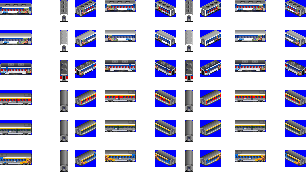
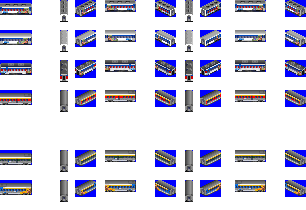
Change: Prepare for DHC 1 cafe car

diff --git a/docs/download_page/korean.html b/docs/download_page/korean.html
@@ -270,7 +270,7 @@
         <td class="introduction">1972</td>
     </tr>
     <tr data-veh_id="CAFE_CAR">
-        <td class="refit"><div><img src="./_static/CAFE_CAR_MUGUNGHWA_1.png" alt="카페 객차"><br /><img src="./_static/CAFE_CAR_MUGUNGHWA_2.png" alt="카페 객차"><br /><img src="./_static/CAFE_CAR_RDC.png" alt="카페 객차"><br /><img src="./_static/CAFE_CAR_MUGUNGHWA_STREAMLINED.png" alt="카페 객차"><br /><img src="./_static/CAFE_CAR_DHC_2.png" alt="카페 객차"><br /><img src="./_static/CAFE_CAR_DHC_3.png" alt="카페 객차"></div></td>
+        <td class="refit"><div><img src="./_static/CAFE_CAR_MUGUNGHWA_1.png" alt="카페 객차"><br /><img src="./_static/CAFE_CAR_MUGUNGHWA_2.png" alt="카페 객차"><br /><img src="./_static/CAFE_CAR_RDC.png" alt="카페 객차"><br /><img src="./_static/CAFE_CAR_MUGUNGHWA_STREAMLINED.png" alt="카페 객차"><br /><img src="./_static/CAFE_CAR_DHC_1.png" alt="카페 객차"><br /><img src="./_static/CAFE_CAR_DHC_2.png" alt="카페 객차"><br /><img src="./_static/CAFE_CAR_DHC_3.png" alt="카페 객차"></div></td>
         <td class="name">카페 객차</td>
         <td class="speed">120 km/h</td>
         <td class="speed_designed">120 km/h</td>

diff --git a/docs/download_page/english.html b/docs/download_page/english.html
@@ -270,7 +270,7 @@
         <td class="introduction">1972</td>
     </tr>
     <tr data-veh_id="CAFE_CAR">
-        <td class="refit"><div><img src="./_static/CAFE_CAR_MUGUNGHWA_1.png" alt="Cafe car"><br /><img src="./_static/CAFE_CAR_MUGUNGHWA_2.png" alt="Cafe car"><br /><img src="./_static/CAFE_CAR_RDC.png" alt="Cafe car"><br /><img src="./_static/CAFE_CAR_MUGUNGHWA_STREAMLINED.png" alt="Cafe car"><br /><img src="./_static/CAFE_CAR_DHC_2.png" alt="Cafe car"><br /><img src="./_static/CAFE_CAR_DHC_3.png" alt="Cafe car"></div></td>
+        <td class="refit"><div><img src="./_static/CAFE_CAR_MUGUNGHWA_1.png" alt="Cafe car"><br /><img src="./_static/CAFE_CAR_MUGUNGHWA_2.png" alt="Cafe car"><br /><img src="./_static/CAFE_CAR_RDC.png" alt="Cafe car"><br /><img src="./_static/CAFE_CAR_MUGUNGHWA_STREAMLINED.png" alt="Cafe car"><br /><img src="./_static/CAFE_CAR_DHC_1.png" alt="Cafe car"><br /><img src="./_static/CAFE_CAR_DHC_2.png" alt="Cafe car"><br /><img src="./_static/CAFE_CAR_DHC_3.png" alt="Cafe car"></div></td>
         <td class="name">Cafe car</td>
         <td class="speed">120 km/h</td>
         <td class="speed_designed">120 km/h</td>
